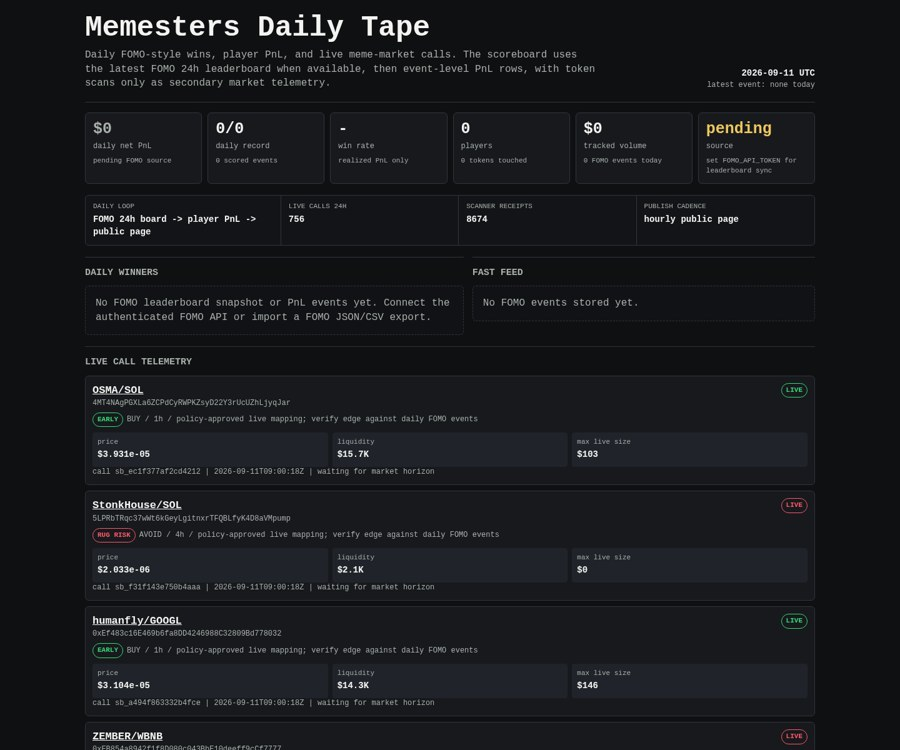
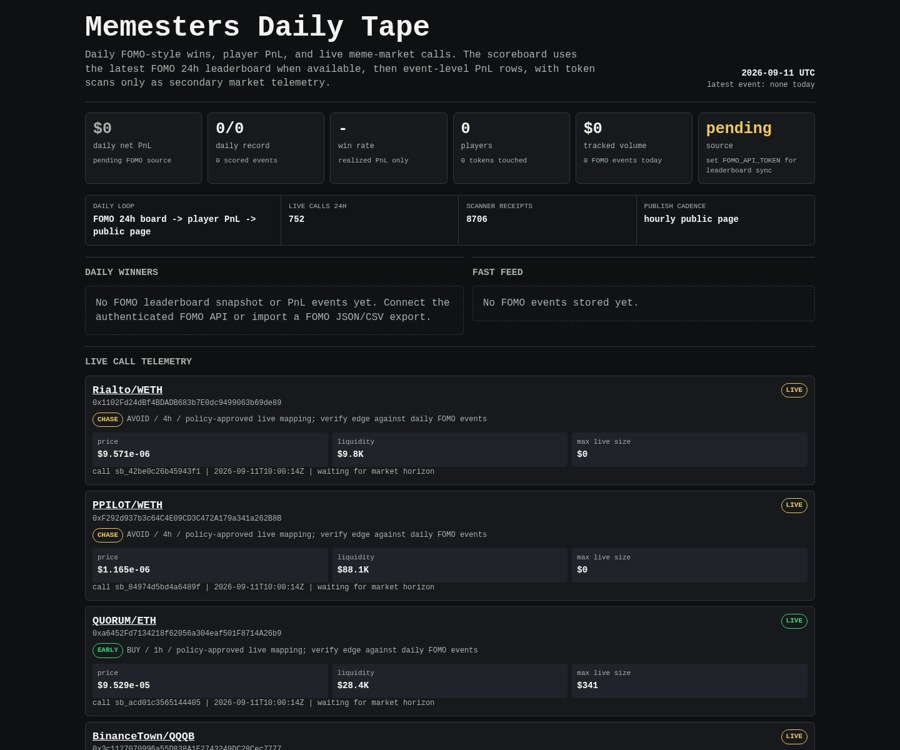
Update Memesters scoreboard

diff --git a/memesters/index.html b/memesters/index.html
@@ -149,8 +149,8 @@
 
     <div class="rail" aria-label="live operating loop">
       <div><span>daily loop</span><b>FOMO 24h board -> player PnL -> public page</b></div>
-      <div><span>live calls 24h</span><b>756</b></div>
-      <div><span>scanner receipts</span><b>8674</b></div>
+      <div><span>live calls 24h</span><b>752</b></div>
+      <div><span>scanner receipts</span><b>8706</b></div>
       <div><span>publish cadence</span><b>hourly public page</b></div>
     </div>
 
@@ -171,8 +171,50 @@
     <article class="receipt">
       <div class="receipt-head">
         <div>
-          <div class="pair"><a href="https://dexscreener.com/solana/8ax75nznil9cowgmqnjueqdvcknq7kkydcryfrbsu1kg">OSMA/SOL</a></div>
-          <div class="addr">4MT4NAgPGXLa6ZCPdCyRWPKZsyD22Y3rUcUZhLjyqJar</div>
+          <div class="pair"><a href="https://dexscreener.com/robinhood/0xfafadc0d3b86912d9ac4a9a6e0ebb78e456d0de2">Rialto/WETH</a></div>
+          <div class="addr">0x1102Fd24dBf4BDADB683b7E0dc9499063b69de89</div>
+          <div class="addr policy-line">
+            <span class="badge chase">CHASE</span>
+            <span>AVOID / 4h / policy-approved live mapping; verify edge against daily FOMO events</span>
+          </div>
+        </div>
+        <span class="badge chase">LIVE</span>
+      </div>
+      <div class="receipt-grid">
+        <div class="kv"><span>price</span><b>$9.571e-06</b></div>
+        <div class="kv"><span>liquidity</span><b>$9.8K</b></div>
+        <div class="kv"><span>max live size</span><b>$0</b></div>
+      </div>
+      <div class="outcomes">call sb_42be0c26b45943f1 | 2026-09-11T10:00:14Z | waiting for market horizon</div>
+    </article>
+    
+
+    <article class="receipt">
+      <div class="receipt-head">
+        <div>
+          <div class="pair"><a href="https://dexscreener.com/robinhood/0xff55831b1213ea7ec5c0de7e23bd8355b846ed6583a427535953cb8440b5c4bb">PPILOT/WETH</a></div>
+          <div class="addr">0xF292d937b3c64C4E09CD3C472A179a341a262B8B</div>
+          <div class="addr policy-line">
+            <span class="badge chase">CHASE</span>
+            <span>AVOID / 4h / policy-approved live mapping; verify edge against daily FOMO events</span>
+          </div>
+        </div>
+        <span class="badge chase">LIVE</span>
+      </div>
+      <div class="receipt-grid">
+        <div class="kv"><span>price</span><b>$1.165e-06</b></div>
+        <div class="kv"><span>liquidity</span><b>$88.1K</b></div>
+        <div class="kv"><span>max live size</span><b>$0</b></div>
+      </div>
+      <div class="outcomes">call sb_84974d5bd4a6489f | 2026-09-11T10:00:14Z | waiting for market horizon</div>
+    </article>
+    
+
+    <article class="receipt">
+      <div class="receipt-head">
+        <div>
+          <div class="pair"><a href="https://dexscreener.com/robinhood/0xc05ab314a9d7600253caf605e327b72a7dab23c63555d684ad15181d98cca3c8">QUORUM/ETH</a></div>
+          <div class="addr">0xa6452Fd7134218f62056a304eaf501F8714A26b9</div>
           <div class="addr policy-line">
             <span class="badge early">EARLY</span>
             <span>BUY / 1h / policy-approved live mapping; verify edge against daily FOMO events</span>
@@ -181,40 +223,82 @@
         <span class="badge early">LIVE</span>
       </div>
       <div class="receipt-grid">
-        <div class="kv"><span>price</span><b>$3.931e-05</b></div>
-        <div class="kv"><span>liquidity</span><b>$15.7K</b></div>
-        <div class="kv"><span>max live size</span><b>$103</b></div>
+        <div class="kv"><span>price</span><b>$9.529e-05</b></div>
+        <div class="kv"><span>liquidity</span><b>$28.4K</b></div>
+        <div class="kv"><span>max live size</span><b>$341</b></div>
       </div>
-      <div class="outcomes">call sb_ec1f377af2cd4212 | 2026-09-11T09:00:18Z | waiting for market horizon</div>
+      <div class="outcomes">call sb_acd01c3565144405 | 2026-09-11T10:00:14Z | waiting for market horizon</div>
     </article>
     
 
     <article class="receipt">
       <div class="receipt-head">
         <div>
-          <div class="pair"><a href="https://dexscreener.com/solana/2s6b6mkgicwb5qbofuxtfkmrs68pgraefe5msca47tup">StonkHouse/SOL</a></div>
-          <div class="addr">5LPRbTRqc37wWt6kGeyLgitnxrTFQBLfyK4D8aVMpump</div>
+          <div class="pair"><a href="https://dexscreener.com/bsc/0x1a1def8c55238986c7067a57726a058d3497b608">BinanceTown/QQQB</a></div>
+          <div class="addr">0x3c1127070996a55D838A1E2743249DC28Cec7777</div>
           <div class="addr policy-line">
-            <span class="badge rug-risk">RUG RISK</span>
+            <span class="badge chase">CHASE</span>
             <span>AVOID / 4h / policy-approved live mapping; verify edge against daily FOMO events</span>
           </div>
         </div>
-        <span class="badge rug-risk">LIVE</span>
+        <span class="badge chase">LIVE</span>
       </div>
       <div class="receipt-grid">
-        <div class="kv"><span>price</span><b>$2.033e-06</b></div>
-        <div class="kv"><span>liquidity</span><b>$2.1K</b></div>
+        <div class="kv"><span>price</span><b>$0.0002654</b></div>
+        <div class="kv"><span>liquidity</span><b>$48.4K</b></div>
         <div class="kv"><span>max live size</span><b>$0</b></div>
       </div>
-      <div class="outcomes">call sb_f31f143e750b4aaa | 2026-09-11T09:00:18Z | waiting for market horizon</div>
+      <div class="outcomes">call sb_23c88014603449e4 | 2026-09-11T10:00:14Z | waiting for market horizon</div>
     </article>
     
 
     <article class="receipt">
       <div class="receipt-head">
         <div>
-          <div class="pair"><a href="https://dexscreener.com/robinhood/0xe4449c0fd885e7f8e1114d28d751148684bd3aba7870871657d71f11b8830023">humanfly/GOOGL</a></div>
-          <div class="addr">0xEf483c16E469b6fa8DD4246988C32809Bd778032</div>
+          <div class="pair"><a href="https://dexscreener.com/robinhood/0xd75affcade9903339447882f97bae2f8e61542f33d8a56ae74d0642be282afcc">NASTY/MSTR</a></div>
+          <div class="addr">0x75983916521Ac4A7faFAd7568819463cebdE1e18</div>
+          <div class="addr policy-line">
+            <span class="badge chase">CHASE</span>
+            <span>AVOID / 4h / policy-approved live mapping; verify edge against daily FOMO events</span>
+          </div>
+        </div>
+        <span class="badge chase">LIVE</span>
+      </div>
+      <div class="receipt-grid">
+        <div class="kv"><span>price</span><b>$4.251e-05</b></div>
+        <div class="kv"><span>liquidity</span><b>$37.6K</b></div>
+        <div class="kv"><span>max live size</span><b>$0</b></div>
+      </div>
+      <div class="outcomes">call sb_cc308650d00a4552 | 2026-09-11T10:00:14Z | waiting for market horizon</div>
+    </article>
+    
+
+    <article class="receipt">
+      <div class="receipt-head">
+        <div>
+          <div class="pair"><a href="https://dexscreener.com/solana/5q2rktdqskb7k9adqlhps7rphhbqixa2p7pejenramyt">MMS/STONK</a></div>
+          <div class="addr">Hf7Fdoo9X8WCaStfK7MjzqpVwyL1ijcjgVPYR9YGYZg2</div>
+          <div class="addr policy-line">
+            <span class="badge chase">CHASE</span>
+            <span>AVOID / 4h / policy-approved live mapping; verify edge against daily FOMO events</span>
+          </div>
+        </div>
+        <span class="badge chase">LIVE</span>
+      </div>
+      <div class="receipt-grid">
+        <div class="kv"><span>price</span><b>$0.0001134</b></div>
+        <div class="kv"><span>liquidity</span><b>$28.6K</b></div>
+        <div class="kv"><span>max live size</span><b>$0</b></div>
+      </div>
+      <div class="outcomes">call sb_850c61662bb04cfd | 2026-09-11T10:00:14Z | waiting for market horizon</div>
+    </article>
+    
+
+    <article class="receipt">
+      <div class="receipt-head">
+        <div>
+          <div class="pair"><a href="https://dexscreener.com/robinhood/0xc0059fdc6543ff531128fd251b75785265e7b240c274545291f1852b56a63a6f">PONSFLY/ETH</a></div>
+          <div class="addr">0x24AF441A7e003f0257Fe01eF4F3E6403073A80fa</div>
           <div class="addr policy-line">
             <span class="badge early">EARLY</span>
             <span>BUY / 1h / policy-approved live mapping; verify edge against daily FOMO events</span>
@@ -223,82 +307,61 @@
         <span class="badge early">LIVE</span>
       </div>
       <div class="receipt-grid">
-        <div class="kv"><span>price</span><b>$3.104e-05</b></div>
-        <div class="kv"><span>liquidity</span><b>$14.3K</b></div>
-        <div class="kv"><span>max live size</span><b>$146</b></div>
+        <div class="kv"><span>price</span><b>$3.763e-05</b></div>
+        <div class="kv"><span>liquidity</span><b>$17.8K</b></div>
+        <div class="kv"><span>max live size</span><b>$214</b></div>
       </div>
-      <div class="outcomes">call sb_a494f863332b4fce | 2026-09-11T09:00:18Z | waiting for market horizon</div>
+      <div class="outcomes">call sb_c3c6a7bf07094c28 | 2026-09-11T10:00:14Z | waiting for market horizon</div>
     </article>
     
 
     <article class="receipt">
       <div class="receipt-head">
         <div>
-          <div class="pair"><a href="https://dexscreener.com/bsc/0xf67c2f069dce9b0fa784f88791b633f397e76086">ZEMBER/WBNB</a></div>
-          <div class="addr">0xEB854a8942f1f8D080c043BbE10deeff9cCf7777</div>
+          <div class="pair"><a href="https://dexscreener.com/robinhood/0xc71b94e32a8f41758f97084a32c3188ce1d62ed17d2752475b2cf4742c93f52f">TUMBLE/ETH</a></div>
+          <div class="addr">0x35aa14e263D4f01fD6f777cA07Fd70a82C5E679c</div>
           <div class="addr policy-line">
-            <span class="badge rug-risk">RUG RISK</span>
-            <span>AVOID / 4h / policy-approved live mapping; verify edge against daily FOMO events</span>
+            <span class="badge early">EARLY</span>
+            <span>BUY / 1h / policy-approved live mapping; verify edge against daily FOMO events</span>
           </div>
         </div>
-        <span class="badge rug-risk">LIVE</span>
+        <span class="badge early">LIVE</span>
       </div>
       <div class="receipt-grid">
-        <div class="kv"><span>price</span><b>$1.604e-05</b></div>
-        <div class="kv"><span>liquidity</span><b>$12.2K</b></div>
-        <div class="kv"><span>max live size</span><b>$0</b></div>
+        <div class="kv"><span>price</span><b>$6.807e-05</b></div>
+        <div class="kv"><span>liquidity</span><b>$24.0K</b></div>
+        <div class="kv"><span>max live size</span><b>$187</b></div>
       </div>
-      <div class="outcomes">call sb_45ddf4f957994961 | 2026-09-11T09:00:18Z | waiting for market horizon</div>
+      <div class="outcomes">call sb_42f84e5add374f59 | 2026-09-11T09:45:15Z | waiting for market horizon</div>
     </article>
     
 
     <article class="receipt">
       <div class="receipt-head">
         <div>
-          <div class="pair"><a href="https://dexscreener.com/robinhood/0xad8453cde8363306ec18603a27acdad9461ea34dc213efc92e6e6c6c8b844737">HEMIBRAIN/GOOGL</a></div>
-          <div class="addr">0x2e290cffe95199CE90aBC9376E48e658331B6a2f</div>
+          <div class="pair"><a href="https://dexscreener.com/bsc/0x12b17607e10342c3cd3b12f1ede88d43b72f06b1">币安星球/BNC4</a></div>
+          <div class="addr">0xa4214Eb5096405f77Aa804BF9DFEa972d0707777</div>
           <div class="addr policy-line">
-            <span class="badge rug-risk">RUG RISK</span>
-            <span>AVOID / 4h / policy-approved live mapping; verify edge against daily FOMO events</span>
+            <span class="badge early">EARLY</span>
+            <span>BUY / 1h / policy-approved live mapping; verify edge against daily FOMO events</span>
           </div>
         </div>
-        <span class="badge rug-risk">LIVE</span>
+        <span class="badge early">LIVE</span>
       </div>
       <div class="receipt-grid">
-        <div class="kv"><span>price</span><b>$8.749e-06</b></div>
-        <div class="kv"><span>liquidity</span><b>$7.6K</b></div>
-        <div class="kv"><span>max live size</span><b>$0</b></div>
+        <div class="kv"><span>price</span><b>$1.173e-05</b></div>
+        <div class="kv"><span>liquidity</span><b>$14.1K</b></div>
+        <div class="kv"><span>max live size</span><b>$169</b></div>
       </div>
-      <div class="outcomes">call sb_0e097e8549ba4897 | 2026-09-11T09:00:18Z | waiting for market horizon</div>
+      <div class="outcomes">call sb_508067ea78984df6 | 2026-09-11T09:45:15Z | waiting for market horizon</div>
     </article>
     
 
     <article class="receipt">
       <div class="receipt-head">
         <div>
-          <div class="pair"><a href="https://dexscreener.com/robinhood/0xc177ab87c50d874384d429f5266da414eb7b2529dc784b6b09ae5827ec27dcd0">TRACE/ETH</a></div>
-          <div class="addr">0x9C9f48291e6781931bbC8F42f70D31dB7Ff20075</div>
-          <div class="addr policy-line">
-            <span class="badge rug-risk">RUG RISK</span>
-            <span>AVOID / 4h / policy-approved live mapping; verify edge against daily FOMO events</span>
-          </div>
-        </div>
-        <span class="badge rug-risk">LIVE</span>
-      </div>
-      <div class="receipt-grid">
-        <div class="kv"><span>price</span><b>$4.232e-05</b></div>
-        <div class="kv"><span>liquidity</span><b>$19.0K</b></div>
-        <div class="kv"><span>max live size</span><b>$0</b></div>
-      </div>
-      <div class="outcomes">call sb_cbab0ae700fb444f | 2026-09-11T09:00:18Z | waiting for market horizon</div>
-    </article>
-    
-
-    <article class="receipt">
-      <div class="receipt-head">
-        <div>
-          <div class="pair"><a href="https://dexscreener.com/robinhood/0x0f48e4b6b0d70b44385bda7f396c09c4cfb399f92837d91772e90990c5b61c87">naval/ETH</a></div>
-          <div class="addr">0x3d123aCf8d96417d8435C766c4b5096f1eE5BFA7</div>
+          <div class="pair"><a href="https://dexscreener.com/solana/9szjgodpkddbugsa8zrxfadip1kterlr3xxjvrihk5xg">STONKPUMP/SOL</a></div>
+          <div class="addr">CiqZrrsxWV9tyz6rL2AfVuibEH45FZq62Z9ZyEdFpump</div>
           <div class="addr policy-line">
             <span class="badge chase">CHASE</span>
             <span>AVOID / 4h / policy-approved live mapping; verify edge against daily FOMO events</span>
@@ -307,74 +370,11 @@
         <span class="badge chase">LIVE</span>
       </div>
       <div class="receipt-grid">
-        <div class="kv"><span>price</span><b>$0.0001227</b></div>
-        <div class="kv"><span>liquidity</span><b>$32.3K</b></div>
+        <div class="kv"><span>price</span><b>$0.0001689</b></div>
+        <div class="kv"><span>liquidity</span><b>$33.5K</b></div>
         <div class="kv"><span>max live size</span><b>$0</b></div>
       </div>
-      <div class="outcomes">call sb_df76503d4f5b4a1d | 2026-09-11T09:00:18Z | waiting for market horizon</div>
-    </article>
-    
-
-    <article class="receipt">
-      <div class="receipt-head">
-        <div>
-          <div class="pair"><a href="https://dexscreener.com/robinhood/0x50e606ad93e627f3e612015e824d829f2e32d14a">nosis/WETH</a></div>
-          <div class="addr">0x6AF373bdC86528C73527f299390394E421D48dD6</div>
-          <div class="addr policy-line">
-            <span class="badge chase">CHASE</span>
-            <span>AVOID / 4h / policy-approved live mapping; verify edge against daily FOMO events</span>
-          </div>
-        </div>
-        <span class="badge chase">LIVE</span>
-      </div>
-      <div class="receipt-grid">
-        <div class="kv"><span>price</span><b>$0.0002159</b></div>
-        <div class="kv"><span>liquidity</span><b>$87.0K</b></div>
-        <div class="kv"><span>max live size</span><b>$0</b></div>
-      </div>
-      <div class="outcomes">call sb_ccf9b69a491e434d | 2026-09-11T09:00:18Z | waiting for market horizon</div>
-    </article>
-    
-
-    <article class="receipt">
-      <div class="receipt-head">
-        <div>
-          <div class="pair"><a href="https://dexscreener.com/robinhood/0x0d63578b410ce8b7a2d42869c3dcba75fae38a74f70d4fbff9d7a315337ca37b">NCHIP/ETH</a></div>
-          <div class="addr">0x73Fd518b4998Df42FBa3AE740865F374522baE2a</div>
-          <div class="addr policy-line">
-            <span class="badge chase">CHASE</span>
-            <span>AVOID / 4h / policy-approved live mapping; verify edge against daily FOMO events</span>
-          </div>
-        </div>
-        <span class="badge chase">LIVE</span>
-      </div>
-      <div class="receipt-grid">
-        <div class="kv"><span>price</span><b>$0.0002049</b></div>
-        <div class="kv"><span>liquidity</span><b>$65.3K</b></div>
-        <div class="kv"><span>max live size</span><b>$0</b></div>
-      </div>
-      <div class="outcomes">call sb_0462fe7ad81e47de | 2026-09-11T08:45:14Z | waiting for market horizon</div>
-    </article>
-    
-
-    <article class="receipt">
-      <div class="receipt-head">
-        <div>
-          <div class="pair"><a href="https://dexscreener.com/solana/38wcugk7bpgmeg8lfecagxyuxvk2ufz9d4jmwkfz5s7m">M3M3/MET</a></div>
-          <div class="addr">AY9mRp4v2SoSDr2c8n1AesFohntEu2nw2oLZTS4E7oLv</div>
-          <div class="addr policy-line">
-            <span class="badge chase">CHASE</span>
-            <span>AVOID / 4h / policy-approved live mapping; verify edge against daily FOMO events</span>
-          </div>
-        </div>
-        <span class="badge chase">LIVE</span>
-      </div>
-      <div class="receipt-grid">
-        <div class="kv"><span>price</span><b>$4.897e-05</b></div>
-        <div class="kv"><span>liquidity</span><b>$22.7K</b></div>
-        <div class="kv"><span>max live size</span><b>$0</b></div>
-      </div>
-      <div class="outcomes">call sb_7dcd83631e25436b | 2026-09-11T08:45:14Z | waiting for market horizon</div>
+      <div class="outcomes">call sb_58135d1ce89d4233 | 2026-09-11T09:45:15Z | waiting for market horizon</div>
     </article>
     
     </section>
